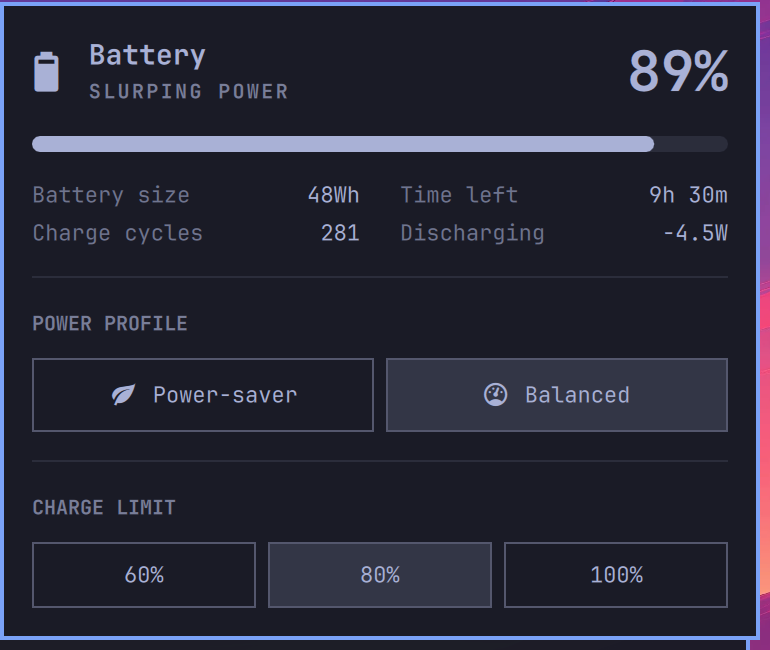
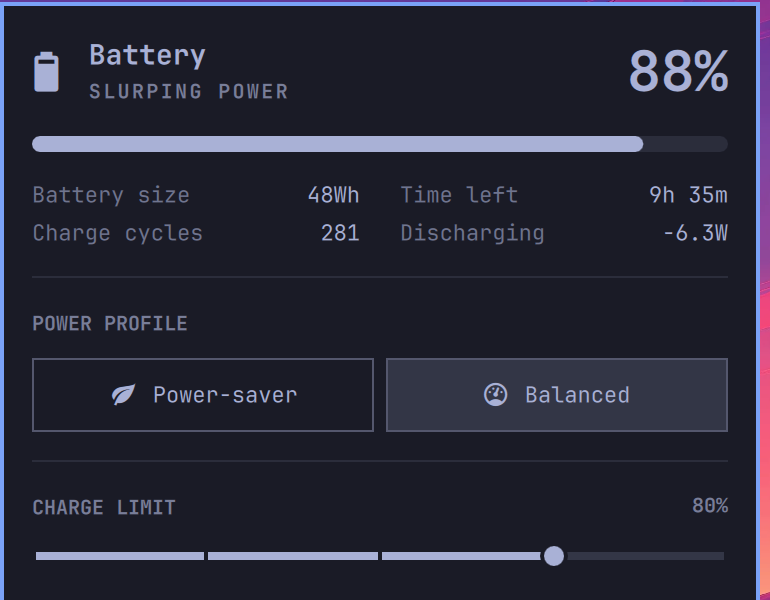
Replace preset buttons with a drag slider
Matches Omarchy's own brightness-slider UX (PanelSlider, live drag label,
write only on release) instead of fixed 60/80/100 buttons, so any value
20-100% is reachable straight from the panel.

Claude-Session: https://claude.ai/code/session_01MaXns92imR24iDSJ1mAtQB

diff --git a/omarchy/patch_panel.py b/omarchy/patch_panel.py
@@ -1,15 +1,15 @@
 #!/usr/bin/env python3
 """
-Adds a "CHARGE LIMIT" button row to the user's Omarchy power panel plugin.
+Adds a CHARGE LIMIT slider to the user's Omarchy power panel plugin.
 
 Omarchy has no plugin API for extending a built-in panel, so this works the
 way Omarchy itself recommends for customizing a built-in widget: clone it
 into ~/.config/omarchy/plugins/ (`omarchy plugin clone omarchy.power`, which
 survives `omarchy update`), then edit the clone. This script does that clone
-(if you don't already have one) and inserts the same three snippets by hand
-that you'd otherwise add yourself, matched against exact anchor text so it
-fails loudly instead of corrupting the file if a future Omarchy version has
-changed the panel's source around those anchors.
+(if you don't already have one) and inserts the same snippets you'd
+otherwise add by hand, matched against exact anchor text so it fails loudly
+instead of corrupting the file if a future Omarchy version has changed the
+panel's source around those anchors.
 
 Safe to re-run: it no-ops if the CHARGE LIMIT section is already present.
 """
@@ -30,7 +30,6 @@ FUNC_ANCHOR_OLD = '''  function setProfile(profile) {
 
 FUNC_ANCHOR_NEW = FUNC_ANCHOR_OLD + '''
 
-  readonly property var chargeLimitOptions: [60, 80, 100]
   // The end threshold, parsed out of "N%" or "start-N%" — omarchy-battery-status
   // reports this whenever the sysfs attribute exists, not just while holding,
   // so it reflects the configured limit even mid-charge.
@@ -85,44 +84,51 @@ ROW_ANCHOR_NEW = '''                onHovered: function(h) {
           }
         }
 
-        // ---------- Charge limit picker ----------
+        // ---------- Charge limit slider ----------
         PanelSeparator {
           foreground: root.bar.foreground
         }
 
         Column {
           width: parent.width
-          spacing: Style.space(10)
+          spacing: Style.space(6)
 
-          PanelSectionHeader {
-            text: "CHARGE LIMIT"
-            foreground: root.bar.foreground
-            fontFamily: root.bar.fontFamily
+          Item {
+            width: parent.width
+            implicitHeight: Math.max(limitHeader.implicitHeight, limitPercent.implicitHeight)
+
+            PanelSectionHeader {
+              id: limitHeader
+              text: "CHARGE LIMIT"
+              foreground: root.bar.foreground
+              fontFamily: root.bar.fontFamily
+              anchors.left: parent.left
+              anchors.verticalCenter: parent.verticalCenter
+            }
+
+            Text {
+              id: limitPercent
+              text: Math.round(chargeLimitSlider.dragging ? chargeLimitSlider.liveValue : root.currentChargeLimit) + "%"
+              color: Qt.darker(root.bar.foreground, 1.4)
+              font.family: root.bar.fontFamily
+              font.pixelSize: Style.font.caption
+              font.bold: true
+              anchors.right: parent.right
+              anchors.verticalCenter: parent.verticalCenter
+            }
           }
 
-          Row {
-            id: limitRow
+          PanelSlider {
+            id: chargeLimitSlider
+            bar: root.bar
             width: parent.width
-            spacing: Style.space(6)
-
-            readonly property real cellWidth: (width - spacing * (root.chargeLimitOptions.length - 1)) / root.chargeLimitOptions.length
-
-            Repeater {
-              model: root.chargeLimitOptions
-              Button {
-                required property var modelData
-                width: limitRow.cellWidth
-                text: modelData >= 100 ? "100%" : (modelData + "%")
-                fontSize: Style.font.bodySmall
-                foreground: root.bar.foreground
-                fontFamily: root.bar.fontFamily
-                horizontalPadding: Style.spacing.controlPaddingX
-                verticalPadding: Style.spacing.controlPaddingY + Style.space(2)
-                bordered: true
-                active: root.currentChargeLimit === modelData
-                onClicked: root.setChargeLimit(modelData)
-              }
-            }
+            minimum: 20
+            maximum: 100
+            step: 5
+            integer: true
+            tickCount: 5
+            value: root.currentChargeLimit
+            onReleased: function(v) { root.setChargeLimit(Math.round(v)) }
           }
         }
       }

diff --git a/README.md b/README.md
@@ -1,22 +1,22 @@
 # battery-charge-limit
 
 RO: Setează până la cât procent să se încarce bateria laptopului, ca s-o
-menajezi — cu un buton chiar în panoul de baterie din Omarchy, plus o
-comandă `battery-charge-limit` din terminal.
+menajezi — cu un cursor pe care-l tragi cu mouse-ul chiar în panoul de
+baterie din Omarchy, plus o comandă `battery-charge-limit` din terminal.
 EN: Caps how far your laptop battery is allowed to charge, to preserve its
-health — with a button right in Omarchy's battery panel, plus a
+health — with a drag slider right in Omarchy's battery panel, plus a
 `battery-charge-limit` terminal command.
 
-![Omarchy battery panel with a CHARGE LIMIT row of 60% / 80% / 100% buttons](docs/panel.png)
+![Omarchy battery panel with a CHARGE LIMIT slider](docs/panel.png)
 
 ## Compatibility — read this first
 
 This was built and tested on one specific setup:
 
 - **[Omarchy](https://omarchy.org/)** (the Hyprland/Quickshell-based Arch
-  distro) — the battery-panel button needs Omarchy's shell and its
+  distro) — the battery-panel slider needs Omarchy's shell and its
   `omarchy plugin clone` mechanism. Without Omarchy, `install.sh` still
-  installs the plain `battery-charge-limit` CLI, just without the button.
+  installs the plain `battery-charge-limit` CLI, just without the slider.
 - An **Apple Silicon Mac running Asahi Linux**, whose `macsmc-battery`
   kernel driver exposes `charge_control_end_threshold` in sysfs, and whose
   `macsmc-battery-charge-control` udev/systemd units already persist the
@@ -48,7 +48,7 @@ This will:
    for `sudo` once.
 3. On Omarchy, clone the built-in power panel (if you haven't already —
    see [`omarchy/patch_panel.py`](omarchy/patch_panel.py)) and add a
-   CHARGE LIMIT row of 60% / 80% / 100% buttons to it, then restart the
+   CHARGE LIMIT slider (20–100%, in 5% steps) to it, then restart the
    shell to load it.
 
 ## Usage
@@ -59,7 +59,8 @@ battery-charge-limit 80       # stop charging at 80%
 battery-charge-limit off      # (or 100) no limit — charge to full
 ```
 
-Or just click 60% / 80% / 100% in the battery panel.
+Or just drag the slider in the battery panel — it only writes the new
+threshold once you let go, not on every pixel of the drag.
 
 ## Uninstall
 
@@ -67,9 +68,9 @@ Or just click 60% / 80% / 100% in the battery panel.
 ./uninstall.sh
 ```
 
-Removes the CLI and udev rule. The panel buttons live in your own cloned
-plugin, so they're left as-is — see the script's output for how to remove
-them too if you want.
+Removes the CLI and udev rule. The panel slider lives in your own cloned
+plugin, so it's left as-is — see the script's output for how to remove it
+too if you want.
 
 ## How it works
 
@@ -80,12 +81,13 @@ them too if you want.
   `/etc/udev/rules.d/90-battery-charge-control-permissions.rules`) just
   `chgrp wheel` + `chmod g+w`s those two files on device add/change, so no
   polkit agent or setuid helper is needed.
-- The panel button is a small patch (`omarchy/patch_panel.py`) applied to
+- The panel slider is a small patch (`omarchy/patch_panel.py`) applied to
   your own clone of Omarchy's `omarchy.power` bar plugin — the
   Omarchy-recommended way to customize a built-in widget, so it survives
-  `omarchy update`. It matches exact anchor text from the panel's source
-  and refuses to touch the file if that text has moved, rather than
-  guessing.
+  `omarchy update`. It reuses Omarchy's own `PanelSlider` component (the
+  same one behind the brightness slider) and matches exact anchor text
+  from the panel's source, refusing to touch the file if that text has
+  moved, rather than guessing.
 
 ## License
 
